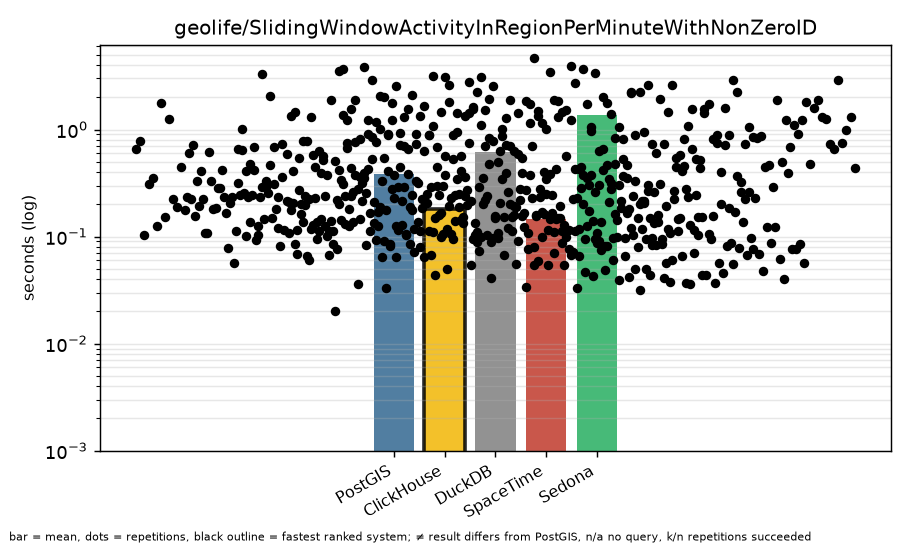
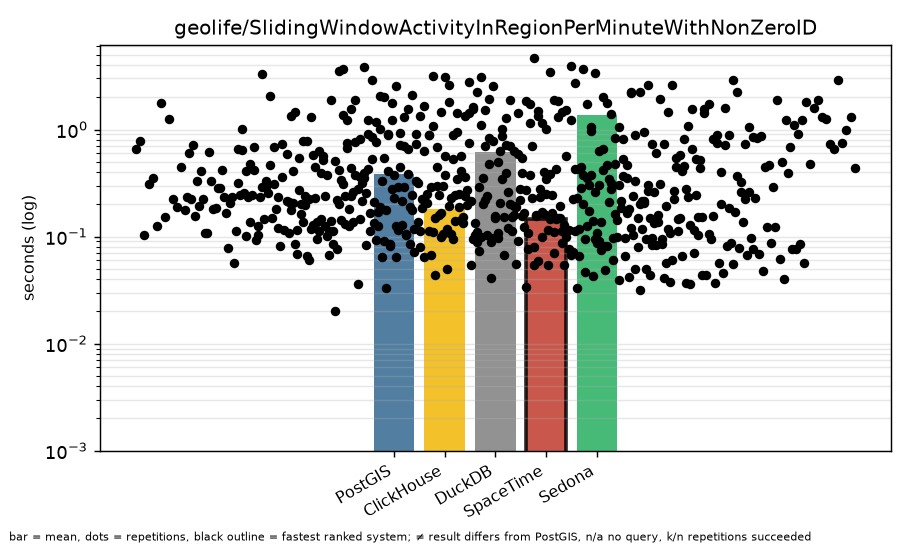
Results 1-thread: SpaceTime ranked on its Geolife queries and cycling kNN (comparison repeated after the runs)

diff --git a/benchmark/results/make_run_readme.py b/benchmark/results/make_run_readme.py
@@ -185,10 +185,8 @@ if hw:
 
 # --- caveats
 out += ["## Caveats", "",
-        "- **SpaceTime's Geolife data** is an older copy than the other systems' (re-import pending): its Geolife queries "
-        "whose results differ from PostGIS are not ranked (see *Not ranked*). Its cycling `kNN` is not ranked because "
-        "the pre-run check found a ride missing that the other systems held then (a test ride since removed from all "
-        "of them); it is checked again after the runs.",
+        "- **SpaceTime's Geolife queries and cycling `kNN`** are ranked; their comparison with PostGIS is repeated "
+        "after the runs.",
         "- **Client host:** the benchmark client runs on a separate host with one CPU core and 1 GB of RAM. Results are "
         "read in batches of 100,000 rows; with several client threads, the client can become a limit for queries with "
         "large results.",

diff --git a/benchmark/results/read-only/1-thread/README.md b/benchmark/results/read-only/1-thread/README.md
@@ -6,11 +6,11 @@ Run of 2026-10-14 to 2026-10-16. Every system alone on the five-node cluster, on
 
 | System | Queries won | Ranked on | Geo-mean slowdown vs fastest | Median slowdown | Measured executions | Failed |
 |---|---:|---:|---:|---:|---:|---:|
-| ClickHouse | 16 | 48 of 48 | 1.74× | 1.44× | 6,144 | 2 |
-| DuckDB | 16 | 48 of 48 | 3.22× | 2.64× | 6,144 | 2 |
-| SpaceTime | 12 | 42 of 48 | 2.18× | 2.03× | 6,144 | 2 |
-| PostGIS | 4 | 48 of 48 | 4.67× | 4.88× | 6,144 | 2 |
-| Sedona | 0 | 48 of 48 | 21.89× | 17.44× | 6,144 | 2 |
+| DuckDB | 16 | 48 of 48 | 3.41× | 2.99× | 6,144 | 2 |
+| SpaceTime | 15 | 48 of 48 | 2.11× | 1.82× | 6,144 | 2 |
+| ClickHouse | 13 | 48 of 48 | 1.84× | 1.62× | 6,144 | 2 |
+| PostGIS | 4 | 48 of 48 | 4.95× | 4.88× | 6,144 | 2 |
+| Sedona | 0 | 48 of 48 | 23.22× | 18.88× | 6,144 | 2 |
 | MobilityDB | 0 | 36 of 36 | 30.45× | 22.99× | 4,608 | 2 |
 
 *Slowdown*: a system's mean runtime on a query divided by the fastest ranked system's, over the queries the system is ranked on. A system is ranked on a query when every measured repetition succeeded and its results match PostGIS (pre-run equivalence check; accepted: nearest-neighbour ties, numbers within 1 %, an empty answer as no row or one row of zeros).
@@ -22,10 +22,10 @@ Run of 2026-10-14 to 2026-10-16. Every system alone on the five-node cluster, on
 | AIS | 2 | 3 | 4 | 3 |
 | Aviation | 1 | 3 | 4 | 4 |
 | Cycling | 1 | 1 | 7 | 3 |
-| Geolife | – | 9 | 1 | 2 |
-| spatial | 3 | 9 | 1 | 3 |
+| Geolife | – | 6 | 1 | 5 |
+| spatial | 3 | 8 | 1 | 4 |
 | temporal | – | 4 | 11 | 1 |
-| spatiotemporal | 1 | 3 | 4 | 8 |
+| spatiotemporal | 1 | 1 | 4 | 10 |
 
 ## Total runtime, pair by pair
 
@@ -68,17 +68,6 @@ Measured executions that did not succeed (including those in the parameter sets 
 | PostGIS | ais | countActiveCrossingsNearIsland | timeout | 2 |
 | Sedona | ais | countActiveCrossingsNearIsland | timeout | 2 |
 | SpaceTime | ais | countActiveCrossingsNearIsland | timeout | 2 |
-
-## Not ranked
-
-| Scenario | Query | System | Reason |
-|---|---|---|---|
-| cycling | kNN | SpaceTime | DIFF 0 vs 5 rows, e.g. postgis=[('18', '0101000020110F0000001C475B298A36412932E34001475A41 |
-| geolife | ClosestRestaurantToPoint | SpaceTime | DIFF 1 vs 1 rows, e.g. postgis=[('0', '2019-07-10 11:29:06', '8099', 'Restaurant', '', '', |
-| geolife | IDsInsideRegion1Andsecond_region | SpaceTime | DIFF 1 vs 1 rows, e.g. postgis=[('43234',)] spacetime=[('43687',)] [2/5 parameter sets] |
-| geolife | SlidingWindowActivityInRegionPerMinuteWithNonZeroID | SpaceTime | DIFF 1720 vs 1720 rows, e.g. postgis=[('2019-07-23 02:25:00', '46448')] spacetime=[('2019- |
-| geolife | UniqueUsersPerHourInRegionInPeriod | SpaceTime | DIFF 91 vs 91 rows, e.g. postgis=[('2019-07-10 15:00:00', '68485')] spacetime=[('2019-07-1 |
-| geolife | timeAggregation | SpaceTime | DIFF 1 vs 1 rows, e.g. postgis=[('685388', '3.96089e+07', '297')] spacetime=[('685151', '4 |
 
 ## Latency per scenario
 
@@ -333,9 +322,9 @@ One section per scenario. The box plot shows every system's runtimes over the me
 |  | SpaceTime | 128 | 2.09 s | 1.73 s | 3.71 s | 4.23 s | 769 ms |
 |  | Sedona | 128 | 4.66 s | 4.74 s | 6.27 s | 6.82 s | 1.03 s |
 | `ClosestRestaurantToPoint` | PostGIS | 128 | 5.03 s | 3.59 s | 15.63 s | 17.89 s | 4.57 s |
-|  | **ClickHouse** | 128 | **381 ms** | 378 ms | 682 ms | 703 ms | 194 ms |
+|  | ClickHouse | 128 | 381 ms | 378 ms | 682 ms | 703 ms | 194 ms |
 |  | DuckDB | 128 | 1000 ms | 854 ms | 2.38 s | 2.58 s | 633 ms |
-|  | SpaceTime | 128 | 62 ms | 59 ms | 104 ms | 124 ms | 23 ms |
+|  | **SpaceTime** | 128 | **62 ms** | 59 ms | 104 ms | 124 ms | 23 ms |
 |  | Sedona | 128 | 9.90 s | 8.36 s | 20.06 s | 22.36 s | 5.05 s |
 | `CountPOIsByTypeInRegion` | PostGIS | 128 | 8.89 s | 6.68 s | 22.06 s | 23.25 s | 6.70 s |
 |  | **ClickHouse** | 128 | **212 ms** | 186 ms | 407 ms | 432 ms | 111 ms |
@@ -348,14 +337,14 @@ One section per scenario. The box plot shows every system's runtimes over the me
 |  | SpaceTime | 128 | 1.79 s | 1.62 s | 3.11 s | 3.96 s | 631 ms |
 |  | Sedona | 128 | 3.05 s | 3.05 s | 4.22 s | 5.00 s | 823 ms |
 | `IDsInsideRegion1Andsecond_region` | PostGIS | 128 | 772 ms | 776 ms | 822 ms | 834 ms | 33 ms |
-|  | **ClickHouse** | 128 | **119 ms** | 120 ms | 175 ms | 185 ms | 34 ms |
+|  | ClickHouse | 128 | 119 ms | 120 ms | 175 ms | 185 ms | 34 ms |
 |  | DuckDB | 128 | 196 ms | 170 ms | 328 ms | 431 ms | 67 ms |
-|  | SpaceTime | 128 | 52 ms | 50 ms | 82 ms | 94 ms | 15 ms |
+|  | **SpaceTime** | 128 | **52 ms** | 50 ms | 82 ms | 94 ms | 15 ms |
 |  | Sedona | 128 | 1.33 s | 1.33 s | 1.47 s | 1.55 s | 79 ms |
 | `SlidingWindowActivityInRegionPerMinuteWithNonZeroID` | PostGIS | 128 | 385 ms | 297 ms | 1.19 s | 1.85 s | 362 ms |
-|  | **ClickHouse** | 128 | **180 ms** | 182 ms | 291 ms | 328 ms | 66 ms |
+|  | ClickHouse | 128 | 180 ms | 182 ms | 291 ms | 328 ms | 66 ms |
 |  | DuckDB | 128 | 622 ms | 352 ms | 2.25 s | 3.15 s | 710 ms |
-|  | SpaceTime | 128 | 147 ms | 104 ms | 404 ms | 615 ms | 126 ms |
+|  | **SpaceTime** | 128 | **147 ms** | 104 ms | 404 ms | 615 ms | 126 ms |
 |  | Sedona | 128 | 1.37 s | 1.11 s | 3.41 s | 3.88 s | 900 ms |
 | `SpatialBBox` | PostGIS | 128 | 1.44 s | 926 ms | 3.70 s | 5.46 s | 1.23 s |
 |  | **ClickHouse** | 128 | **84 ms** | 72 ms | 171 ms | 186 ms | 46 ms |
@@ -420,7 +409,7 @@ Means over the five nodes and over the time the system ran (5 s samples; per sce
 
 ## Caveats
 
-- **SpaceTime's Geolife data** is an older copy than the other systems' (re-import pending): its Geolife queries whose results differ from PostGIS are not ranked (see *Not ranked*). Its cycling `kNN` is not ranked because the pre-run check found a ride missing that the other systems held then (a test ride since removed from all of them); it is checked again after the runs.
+- **SpaceTime's Geolife queries and cycling `kNN`** are ranked; their comparison with PostGIS is repeated after the runs.
 - **Client host:** the benchmark client runs on a separate host with one CPU core and 1 GB of RAM. Results are read in batches of 100,000 rows; with several client threads, the client can become a limit for queries with large results.
 - **Sedona** skips GeoParquet files by their bounding box only when a query compares with a constant geometry; joins with a whole reference table (harbours, islands, districts, counties) read the whole table.
 - **Parameters** are drawn uniformly over each scenario's area and time span, so some queries often find no data (see *Empty results*); every system answers the same parameter sets.

diff --git a/benchmark/results/read-only/1-thread/tables.md b/benchmark/results/read-only/1-thread/tables.md
@@ -4,12 +4,12 @@
 
 | System | Queries won | Queries with a query | Completed (all reps) | Ranked | Geo-mean slowdown vs fastest | Median slowdown |
 |---|---:|---:|---:|---:|---:|---:|
-| PostGIS | 4 | 48 | 48 | 48 | 4.67× | 4.88× |
+| PostGIS | 4 | 48 | 48 | 48 | 4.95× | 4.88× |
 | MobilityDB | 0 | 36 | 36 | 36 | 30.45× | 22.99× |
-| ClickHouse | 16 | 48 | 48 | 48 | 1.74× | 1.44× |
-| DuckDB | 16 | 48 | 48 | 48 | 3.22× | 2.64× |
-| SpaceTime | 12 | 48 | 48 | 42 | 2.18× | 2.03× |
-| Sedona | 0 | 48 | 48 | 48 | 21.89× | 17.44× |
+| ClickHouse | 13 | 48 | 48 | 48 | 1.84× | 1.62× |
+| DuckDB | 16 | 48 | 48 | 48 | 3.41× | 2.99× |
+| SpaceTime | 15 | 48 | 48 | 48 | 2.11× | 1.82× |
+| Sedona | 0 | 48 | 48 | 48 | 23.22× | 18.88× |
 
 ## ais: mean runtime per query
 
@@ -63,7 +63,7 @@ Mean over the repetitions (each with different parameters). **Bold** = fastest r
 | RidesPastOrToUniversityInPeriod | spatiotemporal | 71 ms | 1.41 s | 405 ms ≈ | **29 ms** | 41 ms | 484 ms | DuckDB | 1.43× |
 | SpatialBBox | spatial | 228 ms | 260 ms | **58 ms** | 1.02 s | 71 ms ≈ | 1.54 s | ClickHouse | 1.23× |
 | countRideInDistrict | spatial | 3.05 s | 20.31 s | 2.69 s ≈ | 27.33 s | **1.39 s ≈** | 11.41 s | SpaceTime | 1.93× |
-| kNN | spatial | **22 ms** | 25 ms | 82 ms ≈ | 68 ms ≈ | 30 ms ≠ | 1.10 s ≈ | PostGIS | 1.09× |
+| kNN | spatial | **22 ms** | 25 ms | 82 ms ≈ | 68 ms ≈ | 30 ms | 1.10 s ≈ | PostGIS | 1.09× |
 | spatioTemporalRange | spatiotemporal | 67 ms | 373 ms | 35 ms ≈ | **20 ms** | 21 ms | 214 ms | DuckDB | 1.07× |
 | timeAggregation | temporal | 368 ms | 1.27 s | 180 ms ≈ | **41 ms** | 355 ms ≈ | 357 ms | DuckDB | 4.38× |
 | timeInterval | temporal | 175 ms | 541 ms | 144 ms ≈ | **31 ms** | 245 ms ≈ | 295 ms | DuckDB | 4.7× |
@@ -75,16 +75,16 @@ Mean over the repetitions (each with different parameters). **Bold** = fastest r
 | Query | Type | PostGIS | MobilityDB | ClickHouse | DuckDB | SpaceTime | Sedona | Fastest | Margin |
 |---|---|---:|---:|---:|---:|---:|---:|---|---:|
 | AverageDailyActivityPerUserInPeriod | temporal | 2.15 s | n/a | **287 ms** | 1.63 s | 2.09 s | 4.66 s | ClickHouse | 5.69× |
-| ClosestRestaurantToPoint | spatial | 5.03 s | n/a | **381 ms ≈** | 1000 ms ≈ | 62 ms ≠ | 9.90 s ≈ | ClickHouse | 2.62× |
+| ClosestRestaurantToPoint | spatial | 5.03 s | n/a | 381 ms ≈ | 1000 ms ≈ | **62 ms** | 9.90 s ≈ | SpaceTime | 6.12× |
 | CountPOIsByTypeInRegion | spatial | 8.89 s | n/a | **212 ms** | 19.19 s | 2.32 s | 9.45 s | ClickHouse | 10.96× |
 | FirstAndLastActivityInPeriod | temporal | 1.59 s | n/a | **220 ms** | 876 ms | 1.79 s | 3.05 s | ClickHouse | 3.98× |
-| IDsInsideRegion1Andsecond_region | spatiotemporal | 772 ms | n/a | **119 ms** | 196 ms | 52 ms ≠ | 1.33 s | ClickHouse | 1.64× |
-| SlidingWindowActivityInRegionPerMinuteWithNonZeroID | spatiotemporal | 385 ms | n/a | **180 ms** | 622 ms | 147 ms ≠ | 1.37 s | ClickHouse | 2.15× |
+| IDsInsideRegion1Andsecond_region | spatiotemporal | 772 ms | n/a | 119 ms | 196 ms | **52 ms** | 1.33 s | SpaceTime | 2.28× |
+| SlidingWindowActivityInRegionPerMinuteWithNonZeroID | spatiotemporal | 385 ms | n/a | 180 ms | 622 ms | **147 ms** | 1.37 s | SpaceTime | 1.22× |
 | SpatialBBox | spatial | 1.44 s | n/a | **84 ms** | 3.37 s | 179 ms ≈ | 5.29 s | ClickHouse | 2.12× |
-| UniqueUsersPerHourInRegionInPeriod | spatiotemporal | 782 ms | n/a | **244 ms** | 1.62 s | 1.41 s ≠ | 3.39 s | ClickHouse | 3.2× |
+| UniqueUsersPerHourInRegionInPeriod | spatiotemporal | 782 ms | n/a | **244 ms** | 1.62 s | 1.41 s | 3.39 s | ClickHouse | 3.2× |
 | kNN | spatial | 252 ms | n/a | 123 ms ≈ | 496 ms ≈ | **45 ms ≈** | 4.21 s ≈ | SpaceTime | 2.76× |
 | spatioTemporalRange | spatiotemporal | 73 ms | n/a | 57 ms | 50 ms | **36 ms ≈** | 360 ms | SpaceTime | 1.4× |
-| timeAggregation | temporal | 301 ms | n/a | **183 ms** | 186 ms | 588 ms ≠ | 1.18 s | ClickHouse | 1.01× |
+| timeAggregation | temporal | 301 ms | n/a | **183 ms** | 186 ms | 588 ms | 1.18 s | ClickHouse | 1.01× |
 | timeInterval | temporal | 176 ms | n/a | 140 ms | **97 ms** | 433 ms | 694 ms | DuckDB | 1.45× |
 
 ## ais: latency distribution
